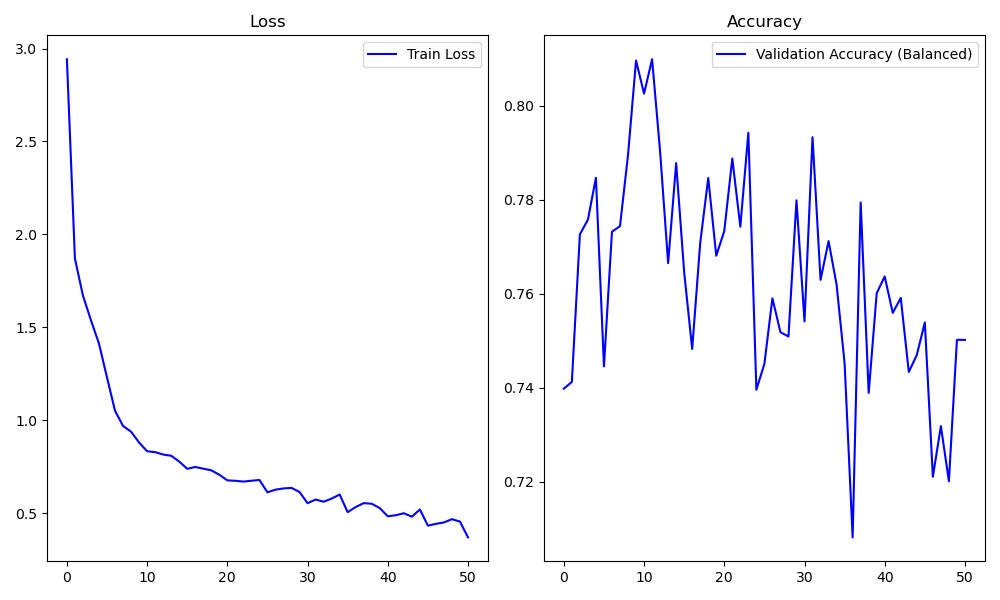
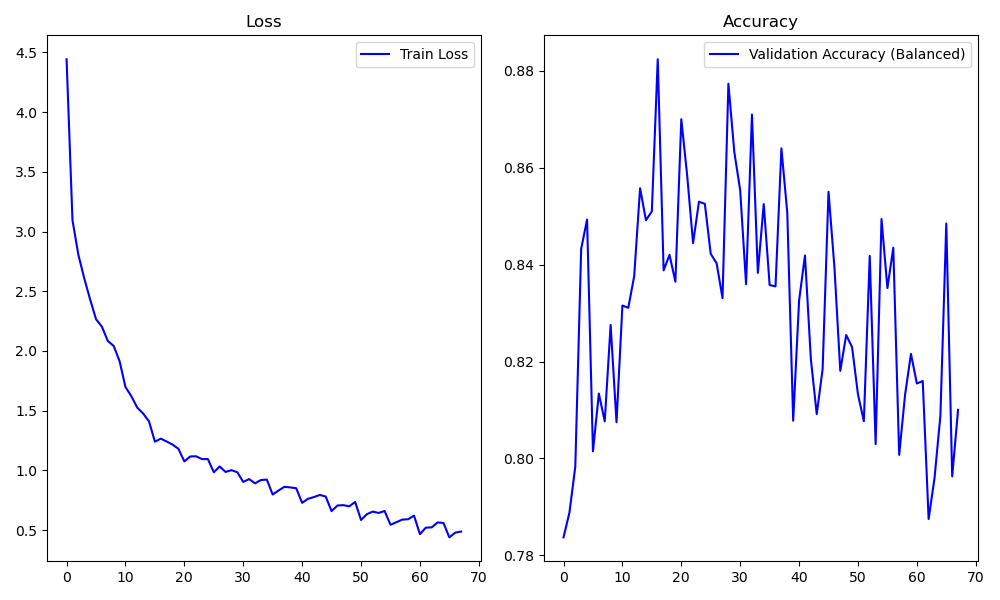
bigger training set wrt classes

diff --git a/configfile.py b/configfile.py
@@ -17,7 +17,9 @@ backbone = BackBone(embedding_dimension)
 num_workers = 8
 
 # Dataset selection 
-class_names_all = ["artefact","Bacillariophyceae","cyano a","Chaetoceros","dark","light","Melosiraceae","nauplii","Neoceratium pentagonum", "detritus", "contrasted_blob", "Dinophyceae", "Coscinodiscaceae", "part<Crustacea", "fiber", "lightrods", "lightsphere", "darksphere", "cyano b", "chainthin"]
+#class_names_all = ["artefact","Bacillariophyceae","cyano a","Chaetoceros","dark","light","Melosiraceae","nauplii","Neoceratium pentagonum", "detritus", "contrasted_blob", "Dinophyceae", "Coscinodiscaceae", "part<Crustacea", "fiber", "lightrods", "lightsphere", "darksphere", "cyano b", "chainthin"]
+class_names_all = ["Bacteriastrum", "Nassellaria", "Richelia", "Climacodium", "crumple sphere", "other<living", "Neoceratium fusus", "Protoperidinium", "Eutintinnus", "Undellidae", "UCYNA like", "ball_bearing_like", "Rhizosolenia inter. Richelia", "Ditylum", "darkrods", "Thalassionematales", "pennate", "Rhabdonellidae", "Odontella", "Codonellopsis", "Planktoniella sol", "part<Ditylum", "Neoceratium", "Retaria", "part<Odontella", "Rhizosoleniaceae", "artefact","Bacillariophyceae","cyano a","Chaetoceros","dark","light","Melosiraceae","nauplii","Neoceratium pentagonum", "detritus", "contrasted_blob", "Dinophyceae", "Coscinodiscaceae", "part<Crustacea", "fiber", "lightrods", "lightsphere", "darksphere", "cyano b", "chainthin"]
+
 number_of_classes_total = len(class_names_all)
 number_of_unseen_classes = 10 # Set the number of classes we exclude from training data
 class_idx = list(range(0, number_of_classes_total - number_of_unseen_classes))
@@ -121,15 +123,7 @@ epochs = selected_model["epochs"]
 lr = selected_model["lr"]
 balance_train_data = selected_model["balance_train_data"]
 
-#Load custom dataset
-#data = FlowCamDataLoader(class_names, image_size, val, test,  batch_size)
-#train_dataloader = FlowCamDataLoader(class_names, image_size, val, test,  batch_size, split=False)
-#train_dataloader = data["train_dataloader"]
-#val_dataloader = data["val_dataloader"]
-#test_dataloader = data["test_dataloader"]
-#train_dataset = data["train_dataset"]
-#val_dataset = data["val_dataset"]
-#test_dataset = data["test_dataset"]
+#Load custom datasets (seen dataset and the disjoint validation dataset)
 train_dataset = FlowCamDataSet(class_names, image_size)
 if balance_train_data:
     sample_weights = train_dataset.get_sample_weights()
